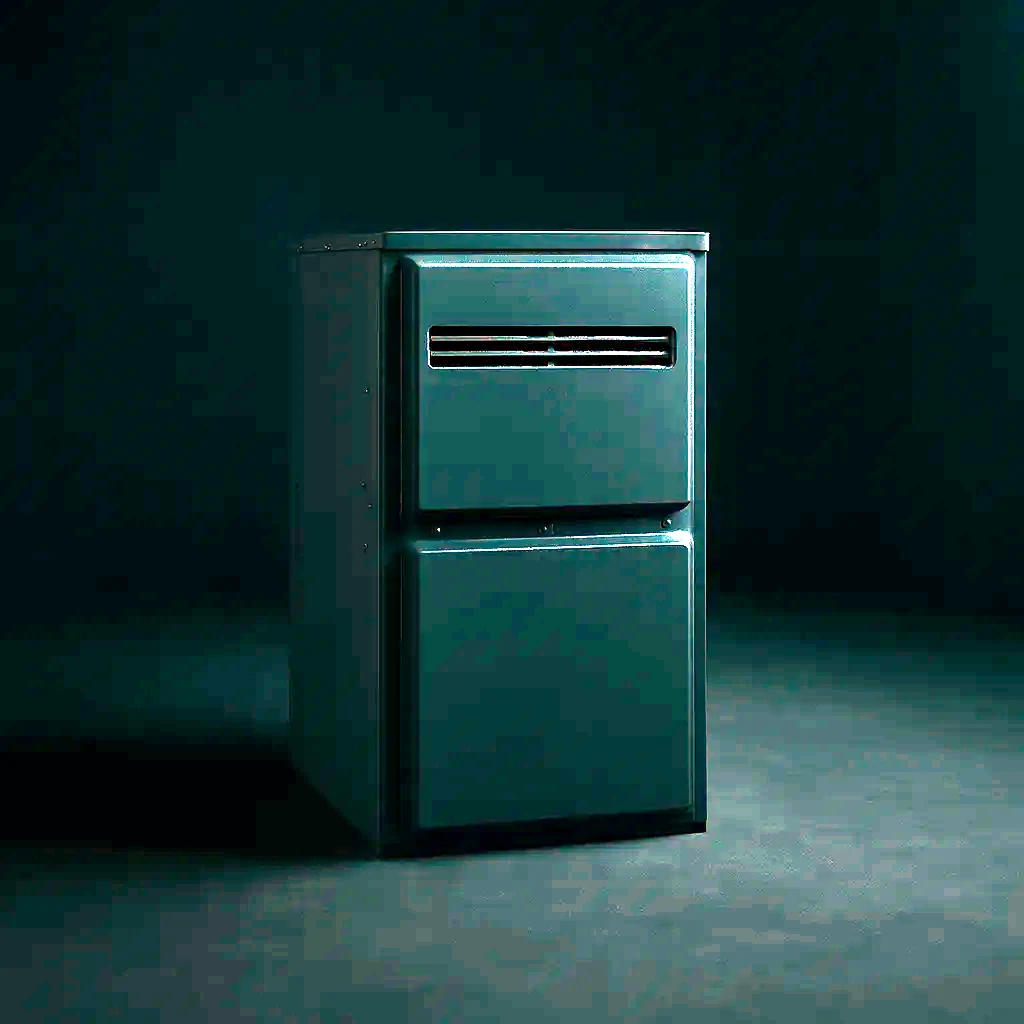
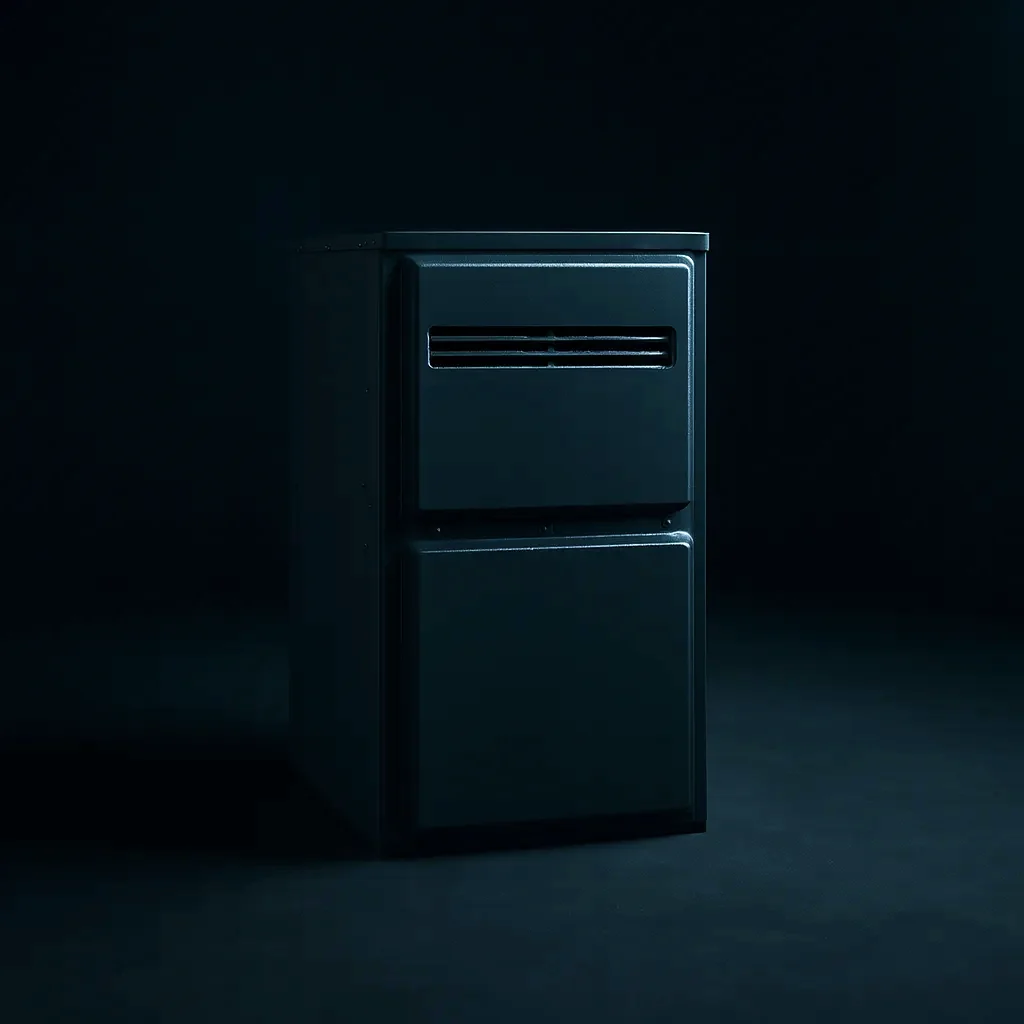
Tone down mobile hero brightness

diff --git a/src/styles.css b/src/styles.css
@@ -6574,10 +6574,7 @@ details.review-page-copy[open] summary span {
 
   .hero,
   .page-hero {
-    background-image:
-      linear-gradient(rgba(146, 176, 186, 0.4), rgba(78, 97, 106, 0.24)),
-      var(--mobile-hero-image, var(--hero-image));
-    background-blend-mode: screen, normal;
+    background-image: var(--mobile-hero-image, var(--hero-image));
   }
 
   .hero {
@@ -6592,14 +6589,14 @@ details.review-page-copy[open] summary span {
 
   .hero::before {
     background:
-      linear-gradient(90deg, rgba(7, 9, 12, 0.78) 0%, rgba(7, 9, 12, 0.54) 48%, rgba(7, 9, 12, 0.18) 80%, rgba(7, 9, 12, 0.3) 100%),
-      linear-gradient(180deg, rgba(7, 9, 12, 0.02), rgba(7, 9, 12, 0.48));
+      linear-gradient(90deg, rgba(7, 9, 12, 0.88) 0%, rgba(7, 9, 12, 0.66) 50%, rgba(7, 9, 12, 0.38) 82%, rgba(7, 9, 12, 0.56) 100%),
+      linear-gradient(180deg, rgba(7, 9, 12, 0.18), rgba(7, 9, 12, 0.7));
   }
 
   .page-hero::before {
     background:
-      linear-gradient(90deg, rgba(7, 9, 12, 0.82) 0%, rgba(7, 9, 12, 0.56) 58%, rgba(7, 9, 12, 0.2) 100%),
-      linear-gradient(180deg, rgba(7, 9, 12, 0.03), rgba(7, 9, 12, 0.5));
+      linear-gradient(90deg, rgba(7, 9, 12, 0.9) 0%, rgba(7, 9, 12, 0.68) 58%, rgba(7, 9, 12, 0.44) 100%),
+      linear-gradient(180deg, rgba(7, 9, 12, 0.18), rgba(7, 9, 12, 0.72));
   }
 
   .service-hero {
